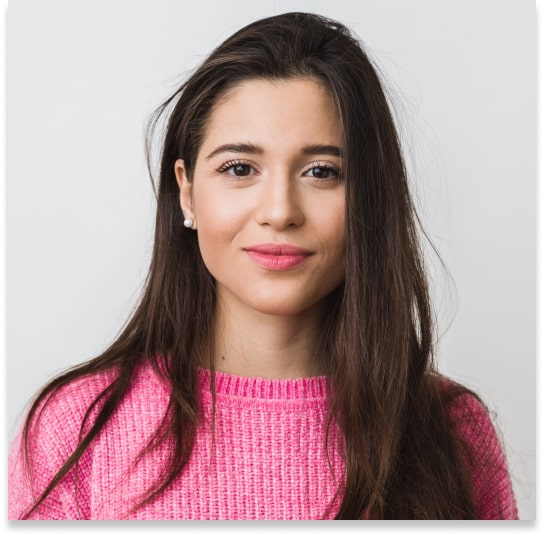
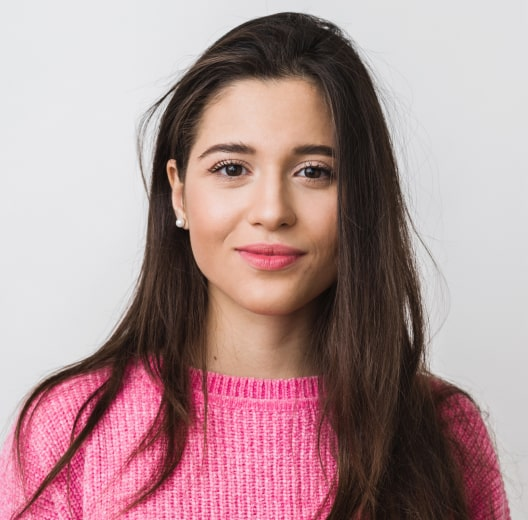
j

diff --git a/index.html b/index.html
@@ -283,8 +283,7 @@
                         </li>
                         <li class="taste-item">
                             <img 
-                            srcset="
-                            ./images/img_3_min.jpg 1x, 
+                            srcset="./images/team-camila-x1-min.jpg 1x, 
                             ./images/team-camila-x2-min.jpg 2x"
                             src="./images/img_3_min.jpg" 
                             alt="camila_garcia" 
